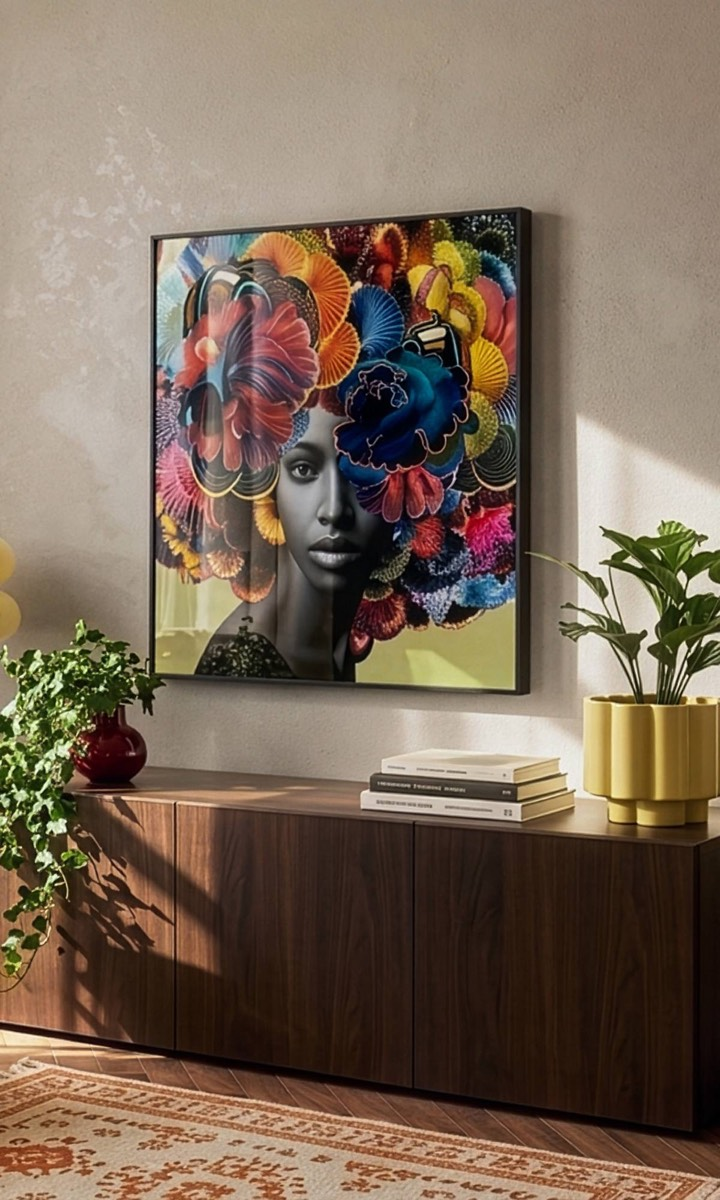
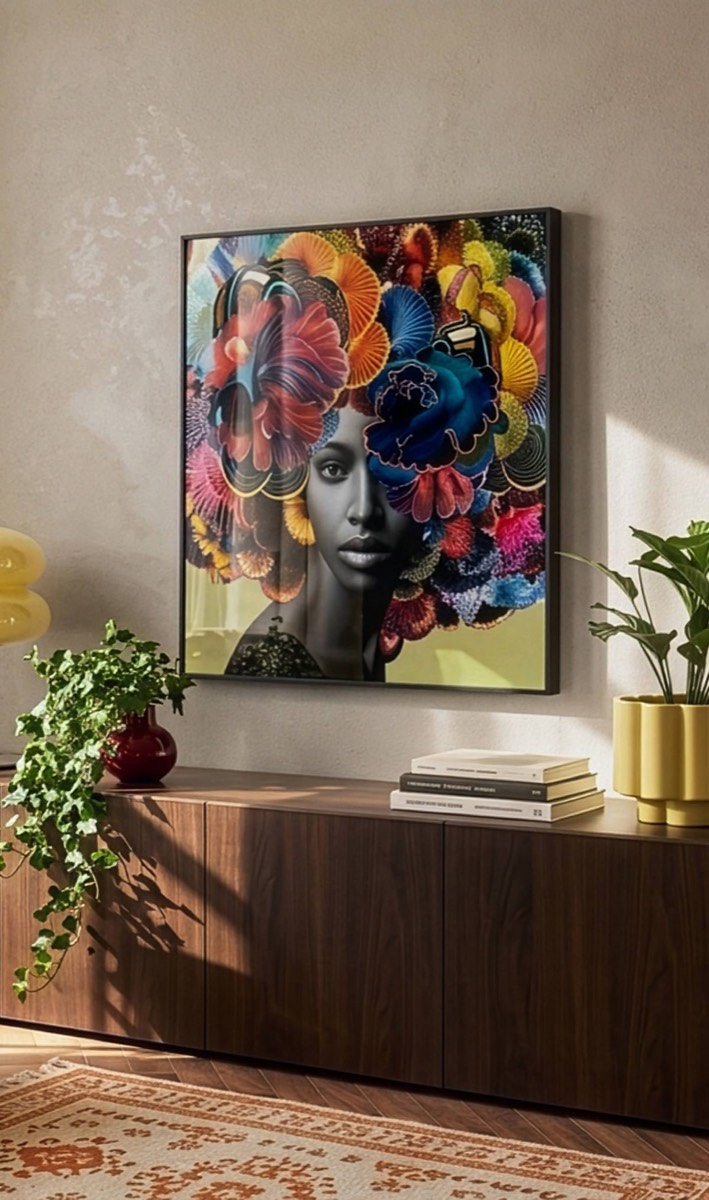
Alice art drop: real portrait hero render for mobile
Swaps the derived stand-in for the supplied 2555x4320 portrait render of the
same room. Intrinsic size in the markup corrected 1200x2000 -> 1200x2029 to
match its 0.591 ratio.

Contrast re-measured against its actual pixels at 390: 7.39 / 8.58 / 7.63.
The brightest pixels under the lockup are near-white (252,255,237) where the
sun hits the wall, so this was worth re-checking rather than assuming the
stand-in's numbers carried over.

Artwork survives the cover-crop at every phone size; only the rug loses its
bottom edge at 320x568, so no object-position override needed.

diff --git a/onsite-alignment/alice-art-drop/index.html b/onsite-alignment/alice-art-drop/index.html
@@ -885,12 +885,12 @@ a:focus-visible,button:focus-visible,input:focus-visible{
      charcoal plate rather than a gradient scrim, so it stays inside the system
      and stays legible whatever the photograph is doing behind it. -->
 <section class="proof" data-sec="proof">
-  <!-- A 16:9 room shot in a portrait viewport crops to a slice of wall. The
-       mobile source is a 3:5 crop of the same room with the work centred, so
-       the phone gets a composed frame rather than a cropped one. -->
+  <!-- A 16:9 room shot in a portrait viewport crops to a slice of wall, so the
+       phone gets its own portrait render of the same room (supplied, 2555x4320)
+       rather than a crop of the landscape one. -->
   <picture>
     <source media="(max-width:767px)" srcset="CMO_Room1_mobile.jpg"
-            width="1200" height="2000">
+            width="1200" height="2029">
     <img class="proof__img" src="CMO_Room1.jpg" width="7680" height="4320"
          fetchpriority="high" decoding="async"
          alt="Alice in der schwarzen LUMA Artbox über einem Sideboard im Wohnzimmer, seitlich einfallendes Tageslicht."

diff --git a/onsite-alignment/alice-art-drop/en.html b/onsite-alignment/alice-art-drop/en.html
@@ -890,12 +890,12 @@ a:focus-visible,button:focus-visible,input:focus-visible{
      charcoal plate rather than a gradient scrim, so it stays inside the system
      and stays legible whatever the photograph is doing behind it. -->
 <section class="proof" data-sec="proof">
-  <!-- A 16:9 room shot in a portrait viewport crops to a slice of wall. The
-       mobile source is a 3:5 crop of the same room with the work centred, so
-       the phone gets a composed frame rather than a cropped one. -->
+  <!-- A 16:9 room shot in a portrait viewport crops to a slice of wall, so the
+       phone gets its own portrait render of the same room (supplied, 2555x4320)
+       rather than a crop of the landscape one. -->
   <picture>
     <source media="(max-width:767px)" srcset="CMO_Room1_mobile.jpg"
-            width="1200" height="2000">
+            width="1200" height="2029">
     <img class="proof__img" src="CMO_Room1.jpg" width="7680" height="4320"
          fetchpriority="high" decoding="async"
          alt="Alice in the black LUMA Artbox above a sideboard in the living room, daylight falling from the side."
